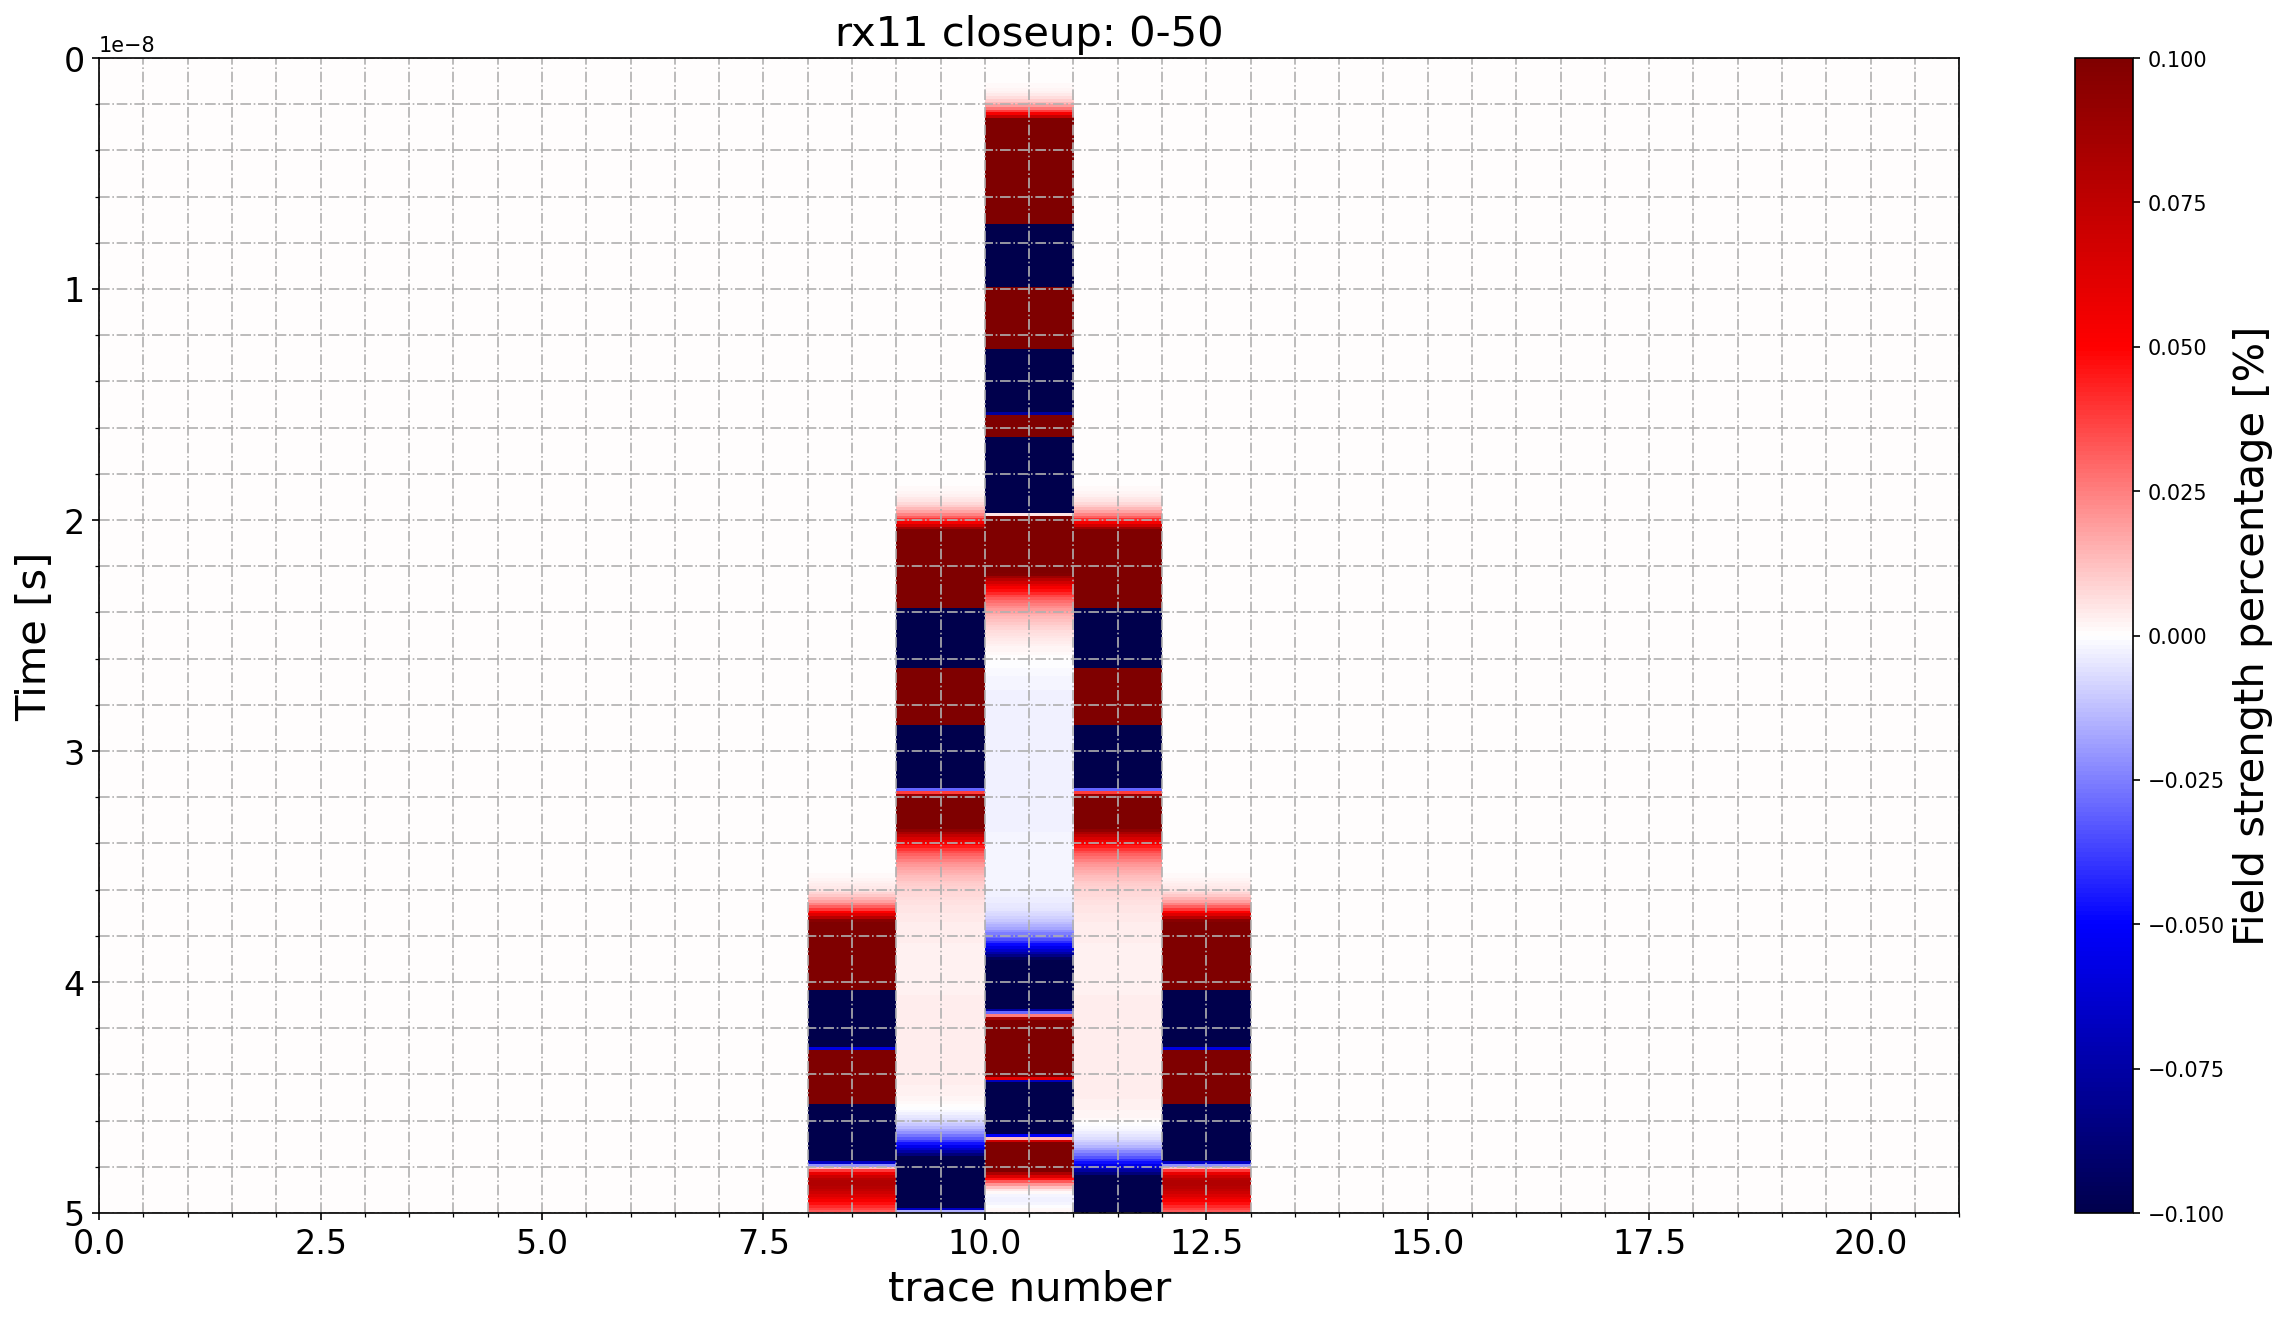
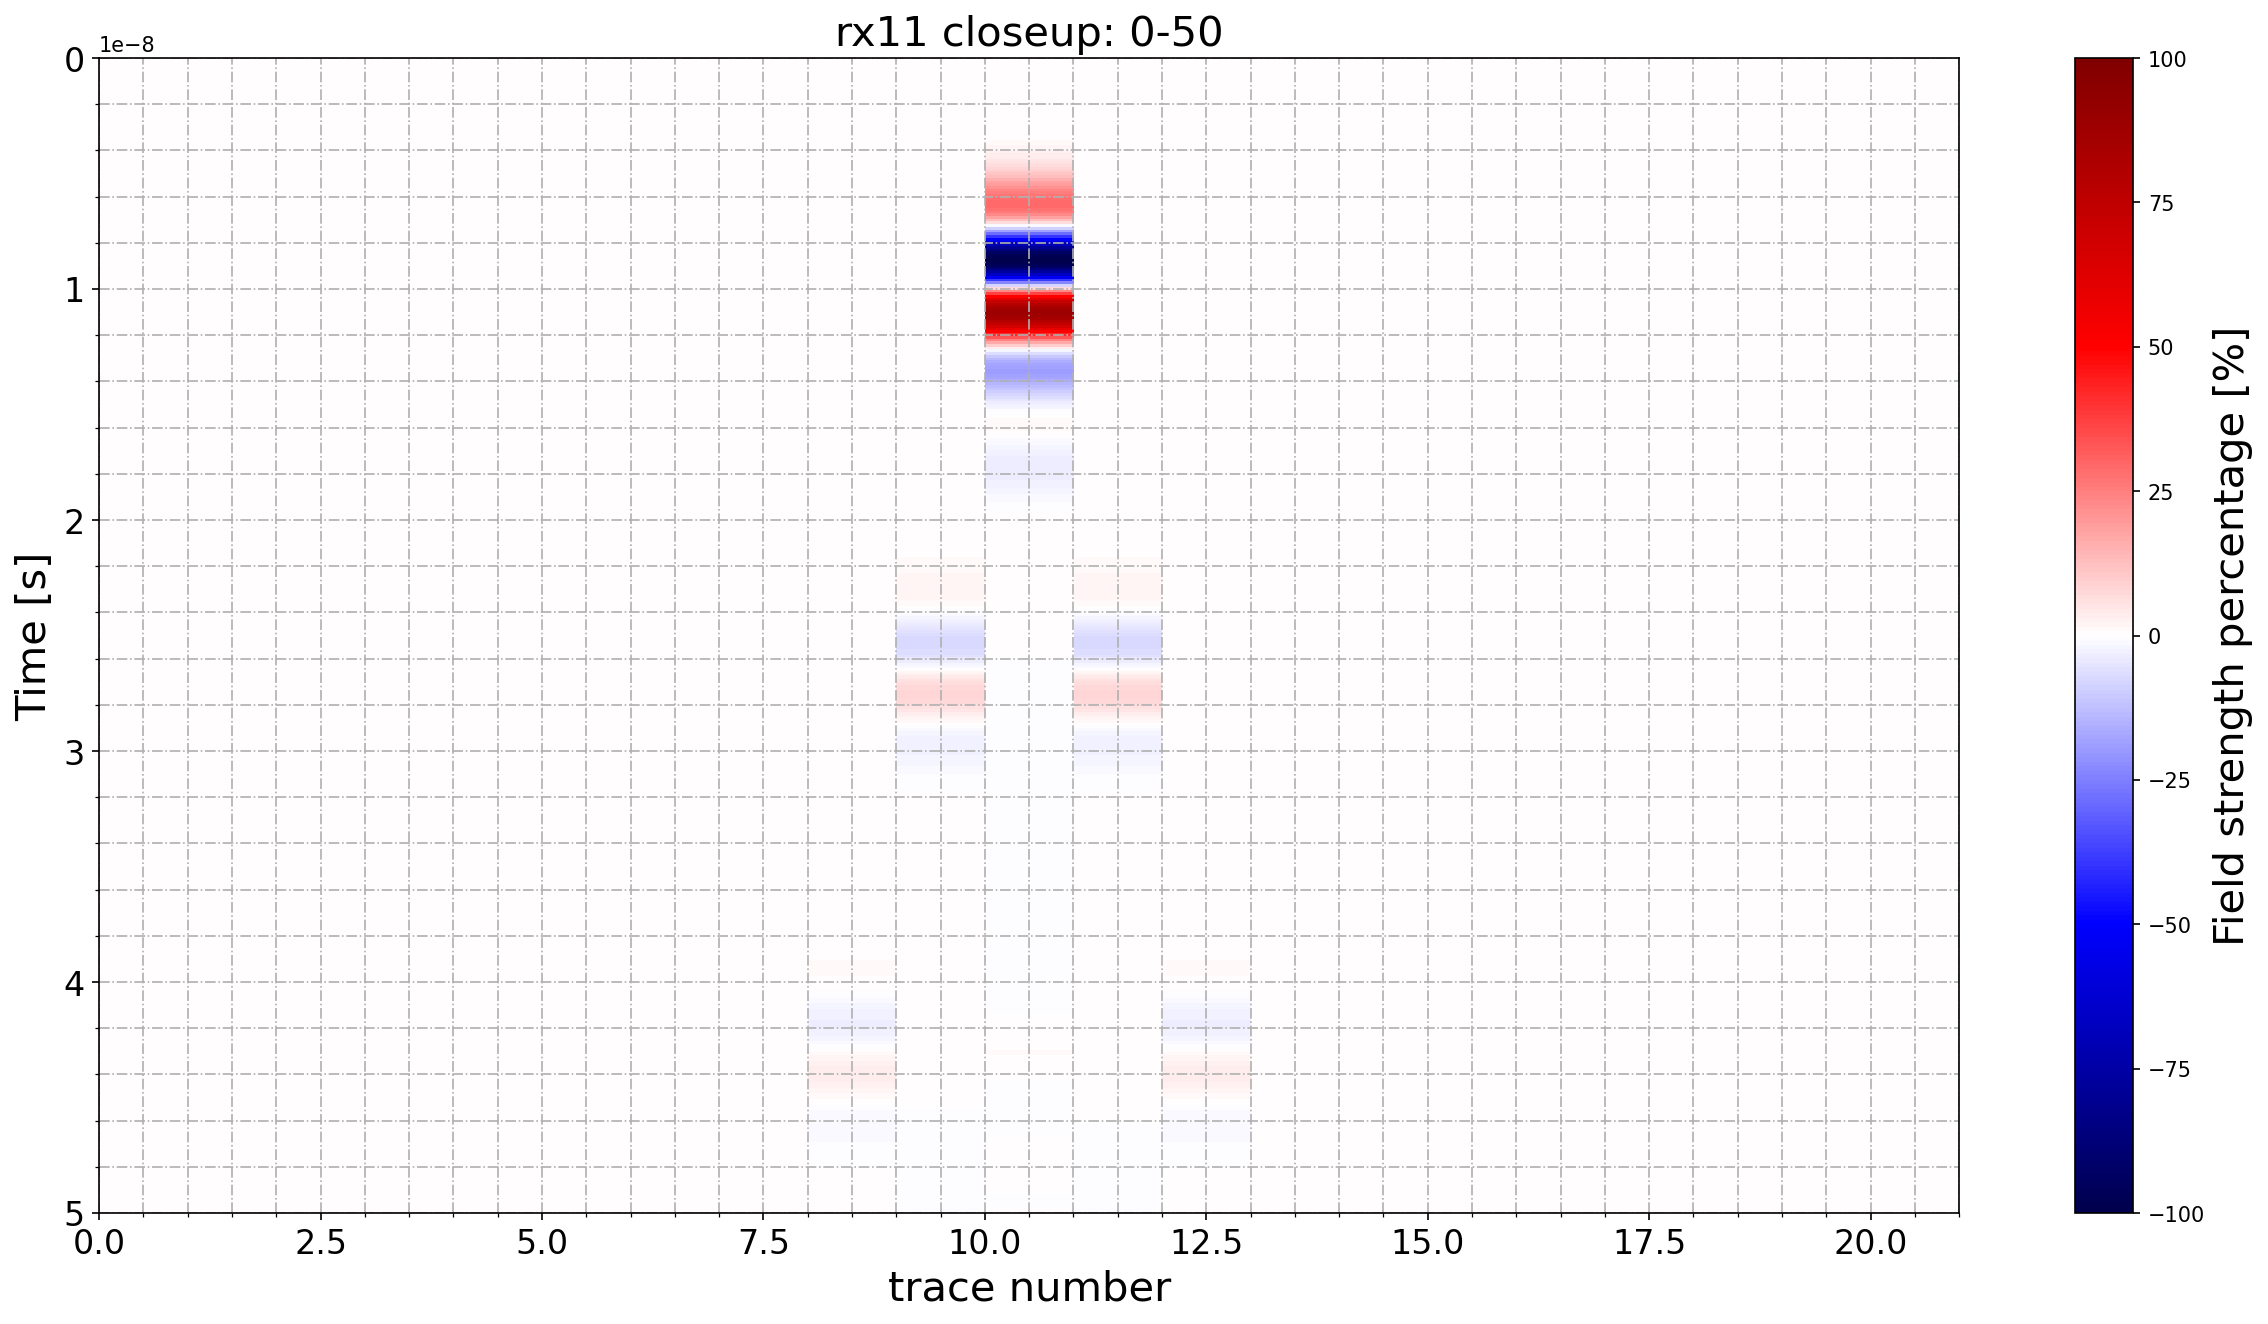
check numerical depression error

diff --git a/tools/plot_Ascan.py b/tools/plot_Ascan.py
@@ -132,13 +132,20 @@ def mpl_plot(filename, outputs=Rx.defaultoutputs, fft=False):
 
                 plt.show()
 
-            # Plotting if no FFT required
+            #* Plotting if no FFT required
             else:
-                fig, ax = plt.subplots(subplot_kw=dict(xlabel='Time [s]', ylabel=outputtext + ' field strength [V/m]'), num='rx' + str(rx), figsize=(20, 10), facecolor='w', edgecolor='w')
+                fig, ax = plt.subplots(subplot_kw=dict(xlabel='Time [s]', ylabel=outputtext + ' normalized field strength'), num='rx' + str(rx), figsize=(20, 10), facecolor='w', edgecolor='w')
+                outputdata = outputdata / np.amax(np.abs(outputdata)) # normalize
                 line = ax.plot(time, outputdata, 'r', lw=2, label=outputtext)
-                ax.set_xlim([0, np.amax(time)])
-                # ax.set_ylim([-15, 20])
+
+                if args.closeup:
+                    ax.set_xlim([closeup_x_start*10**(-9), closeup_x_end*10**(-9)])
+                    ax.set_ylim([closeup_y_start, closeup_y_end])
+                else:
+                    ax.set_xlim([0, np.amax(time)])
                 ax.grid(which='both', axis='both', linestyle='-.')
+                ax.minorticks_on()
+                ax.tick_params(labelsize=18)
 
                 if 'H' in output:
                     plt.setp(line, color='g')
@@ -186,59 +193,14 @@ def mpl_plot(filename, outputs=Rx.defaultoutputs, fft=False):
                 elif output == 'Ez':
                     outputdata_norm = outputdata/np.amax(np.abs(outputdata)) * 100
                     ax = plt.subplot(gs[2, 0])
-                    ax.plot(time, outputdata_norm, 'r', lw=2, label=outputtext) 
+                    ax.plot(time, outputdata_norm, 'r', lw=2, label=outputtext)
                     #ax.set_ylim([-3, 3])
                     ax.set_xlim([5e-8, 5e-6])
-                    ax.set_xscale('log')
+                    #ax.set_xscale('log')
                     ax.set_ylabel(outputtext + ' strength [%]', size=18)
                     ax.tick_params(labelsize=18)
 
-                    # =====ピーク検出=====
-                    """
-                    # detect peak and plot
-                    # peak is the point where outputdata_norm is the largest in nerby 100 points
 
-                    # 検出条件の設定（最大強度に対するパーセンテージ）
-                    peak_detection_condition = 0.05
-                    # peak_detection_conditionをtextで表示する
-                    ax.text(1e-7, 0.5, 'peak_detection_condition:'+str(peak_detection_condition)+'[%]', fontsize=12)
-                    for i in range(0, len(outputdata_norm)-50):
-
-                        if i<100:  
-                            if np.abs(outputdata_norm[i]) == np.amax(np.abs(outputdata_norm[0:i+50])) and np.abs(outputdata_norm[i]) > peak_detection_condition:
-                                ax.plot(time[i], outputdata_norm[i], 'bo', markersize=3)
-                                ax.set_ylim([-1, 1])
-
-                                # テキストの生成位置
-                                if outputdata_norm[i] > 0:
-                                    if outputdata_norm[i] > 1:
-                                        ax.text(time[i], 0.8, '{:.3g}'.format(time[i]*10**7), fontsize=12)
-                                    else:
-                                        ax.text(time[i], outputdata_norm[i]+0.05, '{:.3g}'.format(time[i]*10**7), fontsize=12)
-                                else:
-                                    if outputdata_norm[i] < -1:
-                                        ax.text(time[i], -0.8, '{:.3g}'.format(time[i]*10**7), fontsize=12)
-                                    else:
-                                        ax.text(time[i], outputdata_norm[i]-0.15, '{:.3g}'.format(time[i]*10**7), fontsize=12)
-                        else:
-                            if np.abs(outputdata_norm[i]) == np.amax(np.abs(outputdata_norm[i-50:i+50])) and np.abs(outputdata_norm[i]) > peak_detection_condition:
-                                ax.plot(time[i], outputdata_norm[i], 'bo', markersize=3)
-                                if outputdata_norm[i] > 0:
-                                    if outputdata_norm[i] > 1:
-                                        ax.text(time[i], 0.8, '{:.4g}'.format(time[i]*10**7), fontsize=12)
-                                    else:
-                                        ax.text(time[i], outputdata_norm[i]+0.05, '{:.4g}'.format(time[i]*10**7), fontsize=12)
-                                else:
-                                    if outputdata_norm[i] < -1:
-                                        ax.text(time[i], -0.8, '{:.4g}'.format(time[i]*10**7), fontsize=12)
-                                    else:
-                                        ax.text(time[i], outputdata_norm[i]-0.15, '{:.4g}'.format(time[i]*10**7), fontsize=12)
-"""
-                    # =====ピーク検出=====
-
-
-
-                # ax.set_ylim([-15, 20])
                 elif output == 'Hx':
                     ax = plt.subplot(gs[0, 1])
                     ax.plot(time, outputdata, 'g', lw=2, label=outputtext)
@@ -267,13 +229,21 @@ def mpl_plot(filename, outputs=Rx.defaultoutputs, fft=False):
                     ax.plot(time, outputdata, 'b', lw=2, label=outputtext)
                     ax.set_ylabel(outputtext + ', current [A]')
             for ax in fig.axes:
-                ax.set_xlim([0, np.amax(time)])
+                if args.closeup:
+                    ax.set_xlim([closeup_x_start*10**(-9), closeup_x_end*10**(-9)])
+                else:
+                    ax.set_xlim([0, np.amax(time)])
                 ax.grid(which='both', axis='both', linestyle='--')
                 ax.minorticks_on()
 
         # Save a PDF/PNG of the figure
         # fig.savefig(os.path.splitext(os.path.abspath(filename))[0] + '_rx' + str(rx) + '.pdf', dpi=None, format='pdf', bbox_inches='tight', pad_inches=0.1)
-        fig.savefig(os.path.splitext(os.path.abspath(filename))[0] + '_rx' + str(rx) + '.png', dpi=150, format='png', bbox_inches='tight', pad_inches=0.1)
+        if args.fft:
+            fig.savefig(os.path.splitext(os.path.abspath(filename))[0] + '_rx' + str(rx) + '_fft.png', dpi=150, format='png', bbox_inches='tight', pad_inches=0.1)
+        elif args.closeup:
+            fig.savefig(os.path.splitext(os.path.abspath(filename))[0] + '_rx' + str(rx) + '_closeup' + str(closeup_x_start) + '_' + str(closeup_x_end) + '.png', dpi=150, format='png', bbox_inches='tight', pad_inches=0.1)
+        else:
+            fig.savefig(os.path.splitext(os.path.abspath(filename))[0] + '_rx' + str(rx) + '.png', dpi=150, format='png', bbox_inches='tight', pad_inches=0.1)
 
     f.close()
 
@@ -283,11 +253,19 @@ def mpl_plot(filename, outputs=Rx.defaultoutputs, fft=False):
 if __name__ == "__main__":
 
     # Parse command line arguments
-    parser = argparse.ArgumentParser(description='Plots electric and magnetic fields and currents from all receiver points in the given output file. Each receiver point is plotted in a new figure window.', usage='cd gprMax; python -m tools.plot_Ascan outputfile')
+    parser = argparse.ArgumentParser(description='Plots electric and magnetic fields and currents from all receiver points in the given output file. Each receiver point is plotted in a new figure window.',
+                                        usage='cd gprMax; python -m tools.plot_Ascan outputfile')
     parser.add_argument('outputfile', help='name of output file including path')
     parser.add_argument('--outputs', help='outputs to be plotted', default=Rx.defaultoutputs, choices=['Ex', 'Ey', 'Ez', 'Hx', 'Hy', 'Hz', 'Ix', 'Iy', 'Iz', 'Ex-', 'Ey-', 'Ez-', 'Hx-', 'Hy-', 'Hz-', 'Ix-', 'Iy-', 'Iz-'], nargs='+')
     parser.add_argument('-fft', action='store_true', help='plot FFT (single output must be specified)', default=False)
+    parser.add_argument('-closeup', action='store_true', help='plot close up of time domain signal', default=False)
     args = parser.parse_args()
+
+    # for closeup option
+    closeup_x_start = 0 #[ns]
+    closeup_x_end = 10 #[ns]
+    closeup_y_start = -1 # normalized, -1~1
+    closeup_y_end = 1 # normalized, -1~1
 
     plthandle = mpl_plot(args.outputfile, args.outputs, fft=args.fft)
     plthandle.show()

diff --git a/tools/plot_Bscan.py b/tools/plot_Bscan.py
@@ -68,13 +68,13 @@ def mpl_plot(filename, outputdata, dt, rxnumber, rxcomponent, closeup=False):
     if closeup:
 
         closeup_start = 0 # [ns]
-        closeup_end = 300 # [ns]
+        closeup_end = 20 # [ns]
 
         # カラーバー範囲の設定
 
         plt.imshow(outputdata_norm, 
              extent=[0, outputdata_norm.shape[1], outputdata_norm.shape[0] * dt, 0], 
-            interpolation='nearest', aspect='auto', cmap='seismic', vmin=-0.1, vmax=0.1)
+            interpolation='nearest', aspect='auto', cmap='seismic', vmin=-100, vmax=100)
         #plt.xlim(35, 55)
         plt.ylim(closeup_end*10**(-9), closeup_start*10**(-9))
         plt.minorticks_on( )

diff --git a/kanda/domain_10x10/error_check/memo.md b/kanda/domain_10x10/error_check/memo.md
@@ -1,0 +1,20 @@
+# Numerical dipression error check
+- mesh_001: mesh size is 0.01 m,
+- mesh_005: mesh size is 0.05 m, WARNING is occured
+    - error message:
+    - Potentially significant numerical dispersion. Estimated largest physical phase-velocity error is -2.62% in material 'basalt_6' whose wavelength sampled by 5 cells. Maximum significant frequency estimated as 4.14727e+08Hz
+
+## Theoretical estimation of delay time
+model:
+- basalt layer is thickness of 5m, $\varepsilon_r = 6$
+$$
+t = \frac{10 \times \sqrt{6}}{c} \simeq 81.65 \cdots \ (\mathrm{ns})
+$$
+
+- transmitting delay: 8.73 ns (at peak)
+
+Observed delay times is estimated to be about 90.38 ns.
+
+## Result of delay time (at peak)
+- mesh_001: t=55.6 ns
+- mesh_005: t=55.9 ns -> error: 
